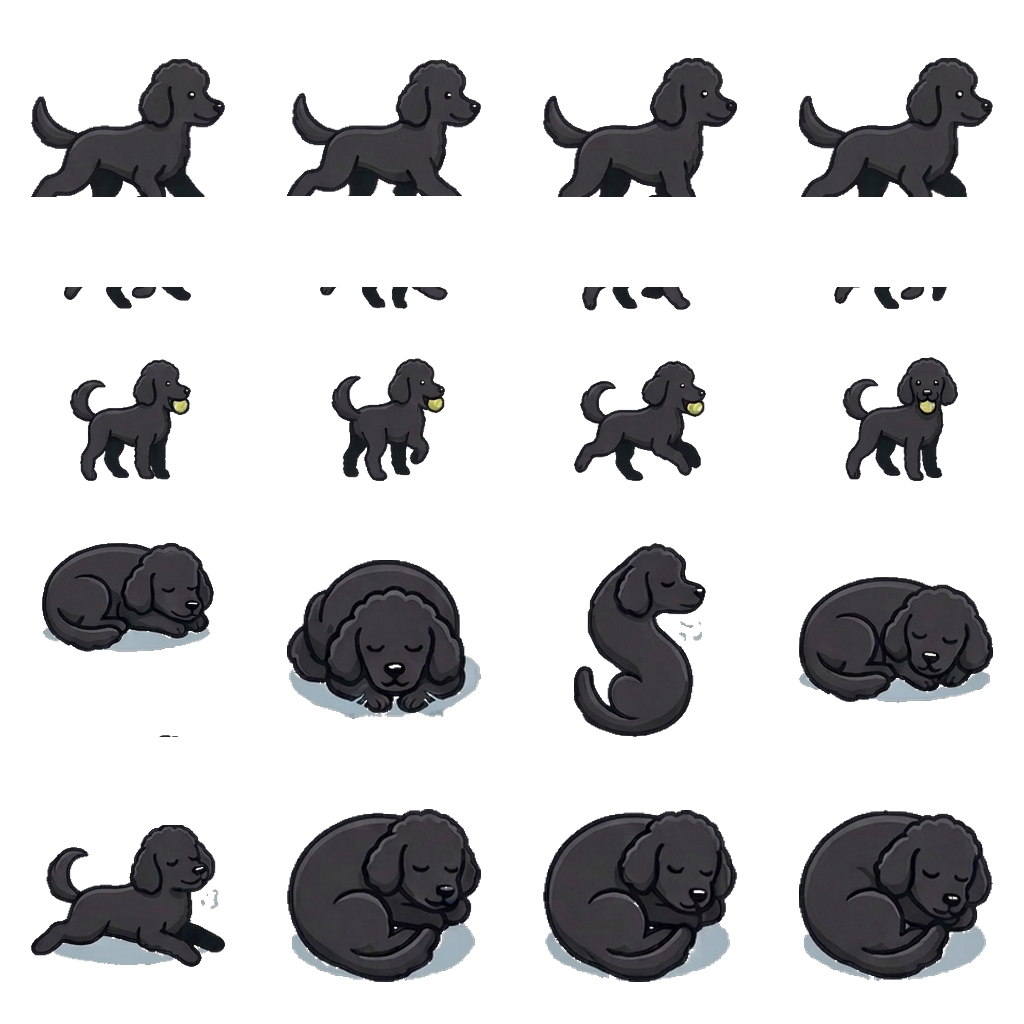
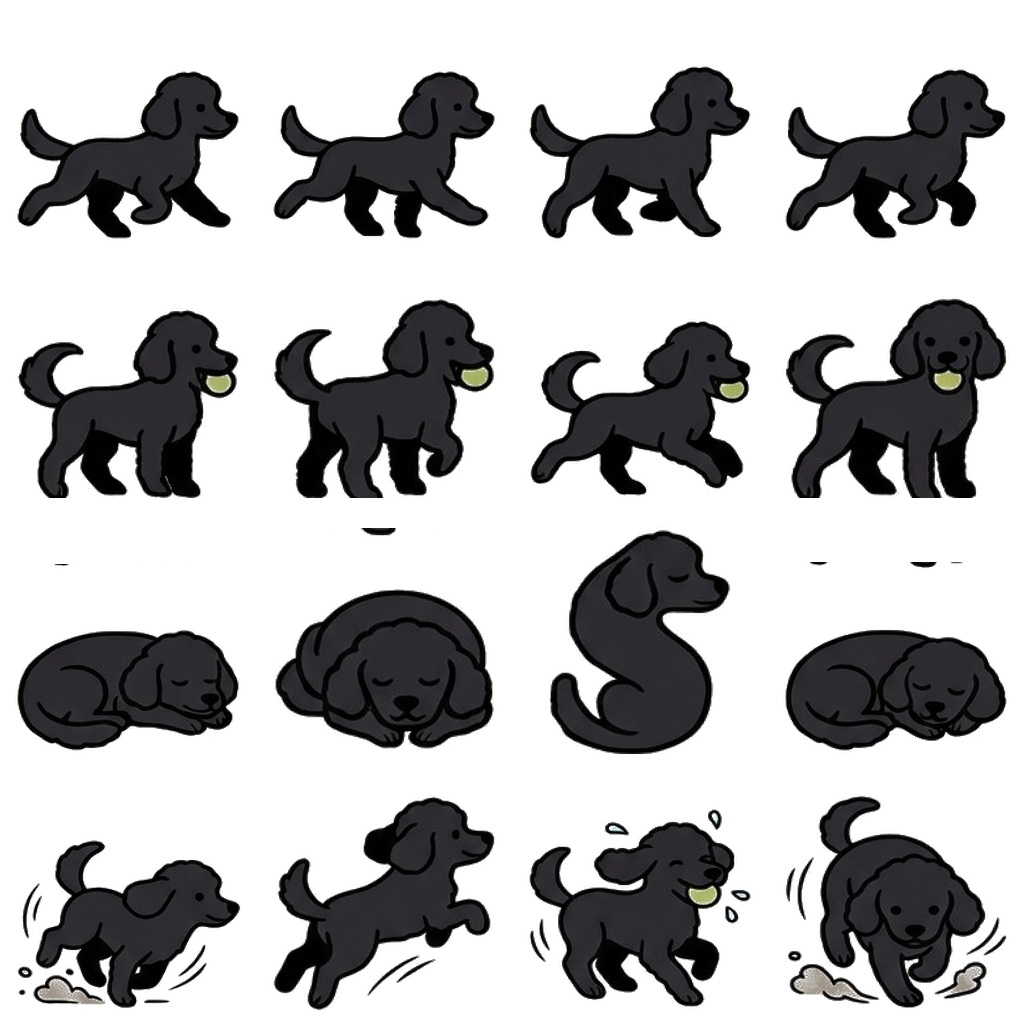
fix(baxter): stop the head badge and running row from clipping
Head profile pic clipped its ears during the idle wag because
background-size: contain left zero headroom before overflow:hidden cut
it off. Full-body sheet's action row (fetch/hover) was cropped at the
knees in the source PNG itself. Rebuilt baxter.png's 4x4 sheet from a
cleaner source (chroma-keyed, cropped to the same grid) so every row
shows full legs, and gave the head image margin to rotate within.

diff --git a/client/src/components/chat/BaxterAvatar.css b/client/src/components/chat/BaxterAvatar.css
@@ -1,5 +1,5 @@
 /* Baxter avatar — head (chat profile) or full body spritesheet (animations).
-   Full sheet: 4×4 @ 1024×1024 (256 tiles) — walk · fetch · sleep · curl */
+   Full sheet: 4×4 @ 1024×1024 (256 tiles) — walk · fetch · sleep · running */
 
 .baxter-avatar {
   --baxter-w: 48px;
@@ -34,7 +34,7 @@
   inset: 0;
   background-image: var(--baxter-head);
   background-repeat: no-repeat;
-  background-size: contain;
+  background-size: 86% 86%;
   background-position: center;
   transform-origin: 50% 80%;
   pointer-events: none;
@@ -189,7 +189,7 @@
   }
 }
 
-/* Row 4: curl */
+/* Row 4: running */
 @keyframes baxter-hover {
   0%,
   100% {
